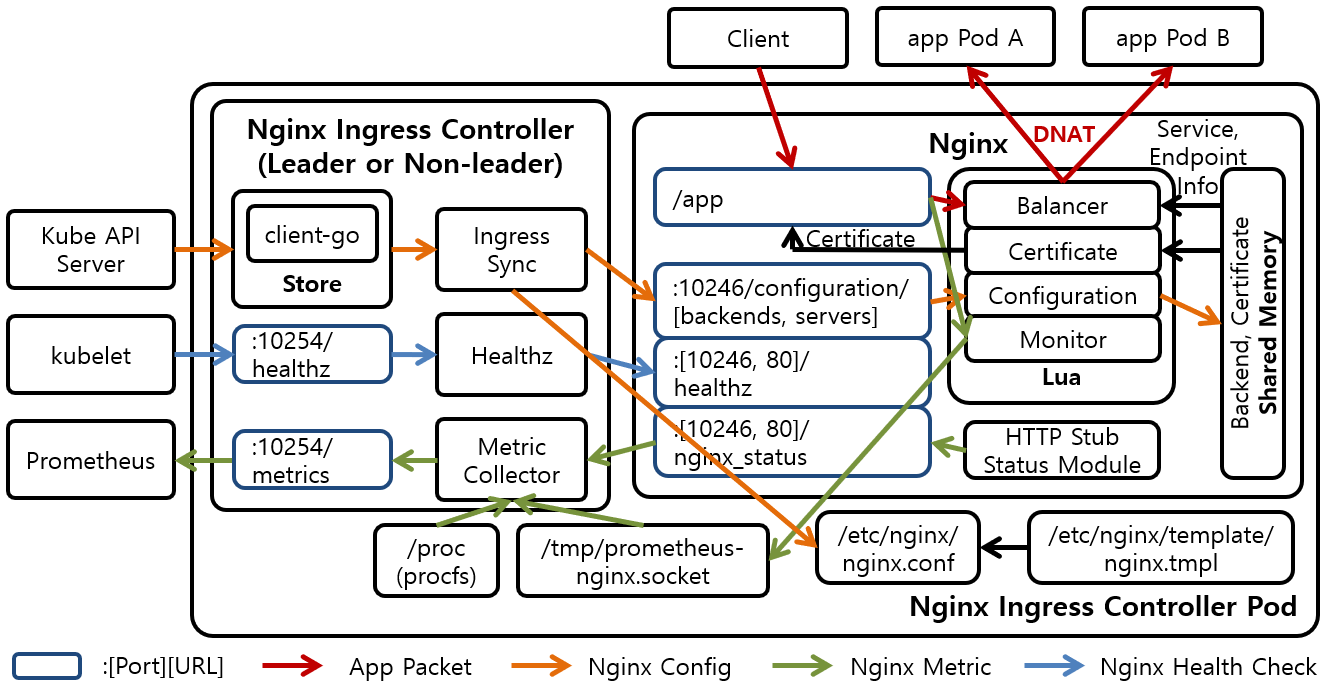
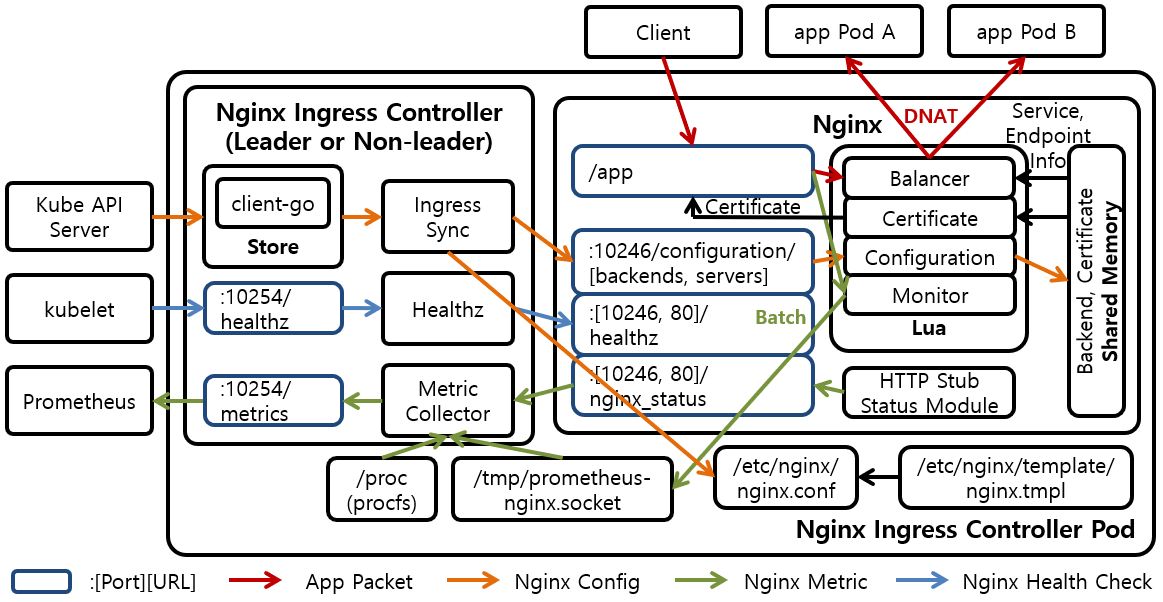
Update

Changed region(s): [[0.0, 0.0, 1.0, 1.0]]

diff --git a/_docs/theory_analysis/Kubernetes_Nginx_Ingress_Controller.md b/_docs/theory_analysis/Kubernetes_Nginx_Ingress_Controller.md
@@ -47,7 +47,7 @@ http {
 
 Nginx는 Lua Module을 이용하여 Nginx Config를 Reload를 최소화 하여 Packet 손실을 최소화 하도록 구현되어 있다. 또한 Metric 정보도 Lua Module을 이용하여 수집하도록 구성되어 있다. [파일 1]은 Lua Module을 이용하는 Nginx의 nginx.conf 파일을 나타내고 있다. [파일 1]의 http 윗부분은 [그림 1]에도 표현된 Nginx의 Backend 정보와 Certificate가 저장되는 Dictionary 기반 Shared Memory를 나타내고 있다. nginx.conf의 upstream 부분에는 일반적으로 Load Balancing의 대상이 되는 Server의 정보가 저장되어 있는데, [파일 1]에서는 Server 정보 대신 balancer Lua Module을 호출하는 것을 확인할 수 있다.
 
-nginx.conf의 server 부분에는 일반적으로 Certificate Path 정보가 저장되는데, [파일 1]에서는 Certificate Path 정보 대신 certificate Lua Module을 호출하는 것을 확인할 수 있다. [파일 1]의 아래 부분은 /app URL이 호출될 경우 balancer를 통해서 Packet이 어느 Pod으로 전달되는지 남기고, monitor를 통해서 관련 Metric 정보를 남기는걸 확인할 수 있다.
+nginx.conf의 server 부분에는 일반적으로 Certificate Path 정보가 저장되는데, [파일 1]에서는 Certificate Path 정보 대신 certificate Lua Module을 호출하는 것을 확인할 수 있다. [파일 1]의 아래 부분은 /app URL이 호출될 경우 balancer를 통해서 Packet이 어느 Pod으로 전달되는지 Log를 남기고, monitor를 통해서 관련 Metric 정보를 남기는 부분을 나타낸다.
 
 #### 1.1. Configuration
 
@@ -59,7 +59,7 @@ Nginx Config 중에서 Backend 부분이 변경되었다면 변경된 내용은 
 
 #### 1.2. Metric Collector
 
-Nginx Ingress Controller의 Metric Collector는 Metric 정보를 수집하여 Prometheus에게 전송하는 역활을 수행한다. [그림 1]은 Metric Collector로 전송되는 Metric의 경로를 나타내고 있다. Metric Collector는 3가지 경로를 통해서 Metric 정보를 수집한다. 첫번째로 Nginx 내부의 HTTP Stub Status Module이 제공하는 Metric 정보를 Nginx의 /nginx_status URL을 통해서 얻어온다. 두번째로 Nginx의 Monitor Lua Module을 통해서 Metric 정보를 얻어온다. Client가 Nginx를 통해서 App에게 Packet을 전송할때 마다 관련 Metric 정보는 Monitor Lua Module로 전송된다. Monitor Lua Module은 받은 Metirc 정보를 모아 한꺼번에 주기적으로 Domain Socket을 이용하여 Metric Collector로 전송한다.
+Nginx Ingress Controller의 Metric Collector는 Metric 정보를 수집하여 Prometheus에게 전송하는 역활을 수행한다. [그림 1]에는 Metric Collector로 전송되는 Metric의 경로도 포함하고 있다. Metric Collector는 3가지 경로를 통해서 Metric 정보를 수집한다. 첫번째로 Nginx 내부의 HTTP Stub Status Module이 제공하는 Metric 정보를 Nginx의 /nginx_status URL을 통해서 얻어온다. 두번째로 Nginx의 Monitor Lua Module을 통해서 Metric 정보를 얻어온다. Client가 Nginx를 통해서 App에게 Packet을 전송할때 마다 관련 Metric 정보는 Monitor Lua Module로 전송된다. Monitor Lua Module은 받은 Metirc 정보를 모아 한꺼번에 주기적으로 Domain Socket을 이용하여 Metric Collector로 전송한다.
 
 마지막으로 Nginx Ingress Controller Pod의 procfs를 통해서 Nginx Process의 Metric 정보를 얻는다. 얻은 Metric 정보는 Nginx Ingress Controller의 /metrics를 통해서 Prometheus에게 전달된다. 따라서 각 Nginx Ingress Controller는 Prometheus의 Exporter 역활을 수행하게된다.
 
@@ -155,7 +155,7 @@ Load Balancing 알고리즘은 기본적으로 Round Robin을 이용하고 confi
 <figcaption class="caption">[파일 3] Nginx Ingress Controller Pod의 Liveness, Readiness Probe</figcaption>
 </figure>
 
-Nginx Ingress Controller는 Nginx의 /healthz URL로 Packet을 Redirect하는 /healthz URL을 제공한다. 따라서 Nginx Ingress Controller의 /healthz로 전송한 요청의 응답을 받을 수 없다면 Nginx Ingress Controller 또는 Nginx에 문제가 생겼다는걸 의미한다. 일반적으로 Nginx Ingress Controller Pod의 Liveness, Readiness Probe를 Nginx Ingress Controller의 /healthz로 지정하여 Nginx Ingress Controller 및 Nginx의 Health를 검사한다. [파일 3]은 Nginx Ingress Controller Pod의 Liveness, Readiness Probe의 설정 Example을 나타내고 있고, [그림 1]은 Nginx Ingress Controller의 /healthz로 전송된 요청이 다시 Nginx의 /healthz로 Redirect 되는걸 나타내고 있다.
+Nginx Ingress Controller는 Nginx의 /healthz URL로 Packet을 Redirect하는 /healthz URL을 제공한다. 따라서 Nginx Ingress Controller의 /healthz로 전송한 요청의 응답을 받을 수 없다면 Nginx Ingress Controller 또는 Nginx에 문제가 생겼다는걸 의미한다. 일반적으로 Nginx Ingress Controller Pod의 Liveness, Readiness Probe를 Nginx Ingress Controller의 /healthz로 지정하여 Nginx Ingress Controller 및 Nginx의 Health를 검사한다. [파일 3]은 Nginx Ingress Controller Pod의 Liveness, Readiness Probe의 설정 Example을 나타내고 있고, [그림 1]에는 Nginx Ingress Controller의 /healthz로 전송된 요청이 다시 Nginx의 /healthz로 Redirect 하는 내용을 포함하고 있다.
 
 ### 2. 참조
 
